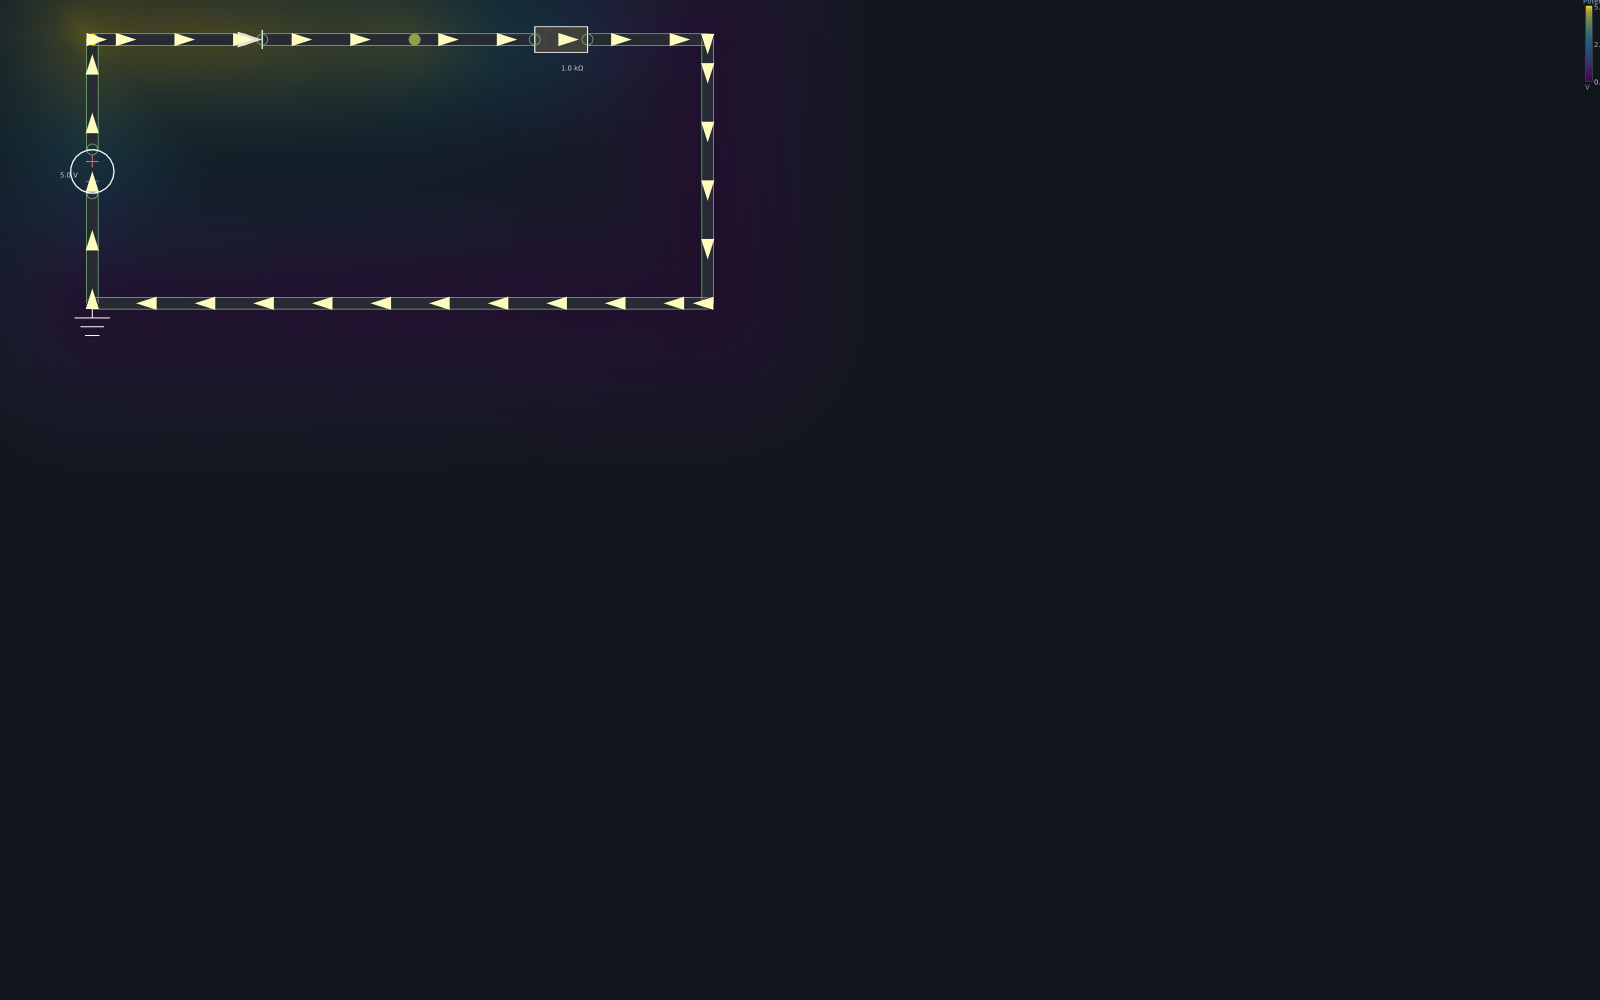
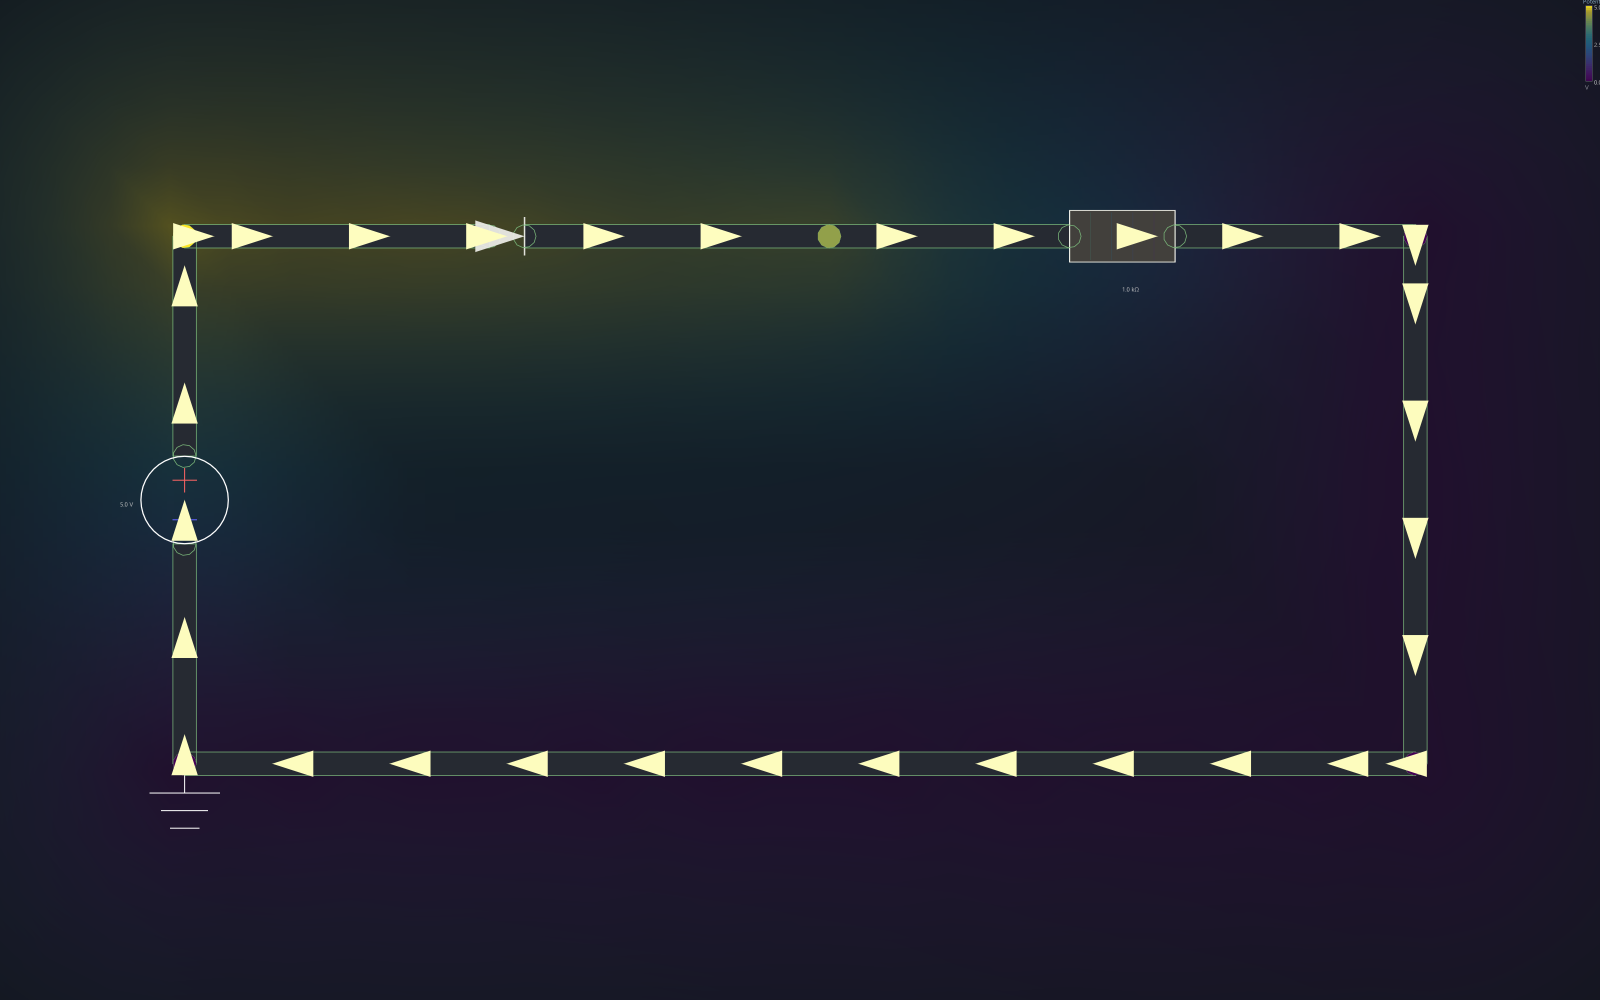
fix(capture): схема заполняет кадр + центрирование
computeCameraForCircuit вписывалась под width/height (1×), а рисовалось на FBO renderW/renderH (2× из-за суперсэмплинга) -> схема занимала четверть кадра. Камеру считаем под фактический размер холста.

Плюс центрирование: scale=min(scaleX,scaleY) вписывает по узкой стороне, остаток по другой оси раньше уходил вниз/вправо -> делим поровну (centerX/centerY).

Перегенерированы все 13 PNG практикума (статичные — до стационара; RC/RL — середина переходного; RLC — t=1с; AC — пики ±).

diff --git a/src/render/CaptureHelpers.h b/src/render/CaptureHelpers.h
@@ -48,9 +48,15 @@ inline CanvasCamera computeCameraForCircuit(const Circuit& circuit,
     double scaleY = static_cast<double>(canvasH) / worldH;
     double scale = std::min(scaleX, scaleY);
 
+    // Центрируем остаток по «нелимитирующей» оси: scale = min(scaleX, scaleY)
+    // вписывает схему по узкой стороне, а по другой остаётся пустота — её
+    // делим поровну, иначе схема прижата к верх-лево.
+    double centerX = (canvasW - worldW * scale) * 0.5;
+    double centerY = (canvasH - worldH * scale) * 0.5;
+
     cam.scale = static_cast<float>(scale);
-    cam.offset.x = static_cast<float>(-(minX - padX) * scale);
-    cam.offset.y = static_cast<float>(-(minY - padY) * scale);
+    cam.offset.x = static_cast<float>(-(minX - padX) * scale + centerX);
+    cam.offset.y = static_cast<float>(-(minY - padY) * scale + centerY);
 
     return cam;
 }

diff --git a/src/render/CaptureRenderer.cpp b/src/render/CaptureRenderer.cpp
@@ -194,9 +194,6 @@ CaptureResult captureToPng(int width, int height,
     projResult.prims.legend.vMin = 0.0;
     projResult.prims.legend.vMax = 5.0;
 
-    // ---- camera ----
-    CanvasCamera camera = computeCameraForCircuit(circuit, width, height);
-
     // ---- offscreen GL context assumed active ----
 #ifdef _WIN32
     if (!loadFboFns()) {
@@ -227,6 +224,12 @@ CaptureResult captureToPng(int width, int height,
             return result;
         }
     }
+
+    // ---- camera ----
+    // Камеру вписываем в ФАКТИЧЕСКИЙ размер холста (renderW/renderH), а не в
+    // целевой width/height: иначе при supersample=2 схема выходит вдвое мельче
+    // по каждой оси и занимает лишь четверть кадра.
+    CanvasCamera camera = computeCameraForCircuit(circuit, renderW, renderH);
 
     // ---- render one frame ----
     glfwPollEvents();
